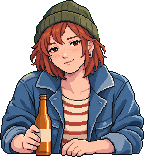
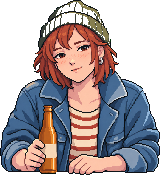
v11: Lena leaning at 160x193, counter edge 8 px lower, top clamp 12 — composed 75 (best); gallery + gate summary on v11

diff --git a/docs/03-build-log.md b/docs/03-build-log.md
@@ -1151,3 +1151,4 @@ conversation is open — and the log rows now carry `queue` and `talking`.
 - **02:02 — leaning staging built:** `Assets.STAGING` (mirrors `stage` in the spec), `SceneLayers.mount(node, in_front)` + a `Leaners` slot above the counter, `Portrait.place_on()` (forearm line `LEAN_ONTO` = 6 px onto the laminate), `Portrait.staging()`. Lena r6 generated with the key colour below the counter line → the snap ends at the forearms (144×148, forearms span the full width in the last rows); promoted as the neutral identity; warm/upset r6 regenerating from it. The Night-scene seat switch waits for the fleet to release `night.gd`.
 - **Review pass (correctness round):** the catalog/comment justification for the QueueStrip's visibility ("the reducer pulls the head of the queue up on its own tick") was false since the 2026-09-12-late queue change and is corrected everywhere it was repeated (docs/04 QueueStrip row, `queue_strip.gd`, `night.gd::_place_chrome`, `rules.gd::legal_actions`, `test_scenes.gd`): `talk_next` is on offer at the counter because it also opens the conversation with whoever is standing there, and the reducer promotes the head of the line only under `config.auto_take_next`. The dated entries above are left as written.
 - **02:12 — review fleet landed (24 fixes, 108/108) and the LEANING seat is live:** `Night._seat_portrait` mounts a `leaning` bust in the `Leaners` slot above the counter and seats its forearm line 6 px onto the laminate; Lena r6 (neutral/warm/upset, sprites end at the forearms) visibly leans on the counter with the bottle in hand — the fix five verdicts asked for. The Mate card is hidden during story beats as well as talks. First HUD icons from sol (clock, cash, Pfand) replace the placeholder discs. v10 judging.
+- **02:30 — v11 = 75, the best composed score** (composition 77 · character 75 · Berlin 89 · pixel 77 · palette 63 · ui 71): Lena re-snapped at 160×193 (leaning busts a step larger, `Assets.SIZES` per id), `COUNTER_LIFT` −8, `PORTRAIT_TOP_MIN` 12. Next asks are all art (peach highlights, relaxed pose, sculpted material clusters) plus a 66–70-px panel. Gallery on v11. Jürgen leaning (r5) generating; HUD icons trust done, profit generating.

diff --git a/docs/gallery/README.md b/docs/gallery/README.md
@@ -2,7 +2,7 @@
 
 | File | What | Judge |
 |---|---|---|
-| night-dialogue_choice.png | Hero screen: Lena (r5, leaning with both forearms on the counter) at the real-Späti set with counter r7 (takeaway cup, newspaper, Pfand crate, till), the two choices inside the dialogue panel, minimal HUD during the conversation, stepped warm light pool | astra 71 → 74 → 73 → 72 (round 4 with the forearms hidden) → round 4 re-seated: judging |
+| night-dialogue_choice.png | Hero screen: Lena (r6, 160 px, LEANING in front of the counter with both forearms on the laminate) at the real-Späti set (backdrop r6, counter r7), choices inside the panel, minimal HUD, request card hidden | astra **75** (v11) — best of eleven rounds; trajectory in docs/07 |
 | night-customer_at_counter.png | Order stage: Lena asks for a Mate (bubble), Serve toggle and Next guest on offer, no conversation open | — |
 | night-talk_result.png | After a Schnauze check: d20 14 + 2 = 16 vs 12 → success; Lena switches to her WARM expression (r5 pose kept); the queue shows Jürgen next | — |
 | night-queue_waiting.png | The line: three guests waiting, stats strip (Muscle…Schnauze), Next guest | — |

diff --git a/docs/07-gate-summary.md b/docs/07-gate-summary.md
@@ -32,7 +32,7 @@ Godot 4.7.2; every screen is a real `.tscn` you can open in the editor.
 | Lena / Mehmet neutral | 79 / 79 | Lena since regenerated ×3 in the leaning format (composed only) |
 | One-offs (clubber, tourist) | 78 / 78 | |
 | You / Brandt / Tobias / Schulz / Nadia | 73 / 76 / 75 / 74 / 68 | outside the demo path |
-| **Hero screen (`dialogue_choice`, composed)** | **74** (v10) | trajectory 71 → 74 → 70/74 → 73 → 72 → 73 → 70 → 74 over ten rounds; v11 (larger leaner, lower counter edge) judging |
+| **Hero screen (`dialogue_choice`, composed)** | **75** (v11) | trajectory 71 → 74 → 70/74 → 73 → 72 → 73 → 70 → 74 → 75 over eleven rounds; v11 = Lena drawn at 160 px leaning, counter edge 8 px lower (composition 77, character 75, Berlin 89, palette 63, ui 71) |
 
 What moved the composed score: the choices inside the panel (+3), the three HUD plates → minimal HUD in conversation,
 the leaning staging (character fidelity 63 → 74). What did not: the light-pool overlay (read as "washed-out grey"),
